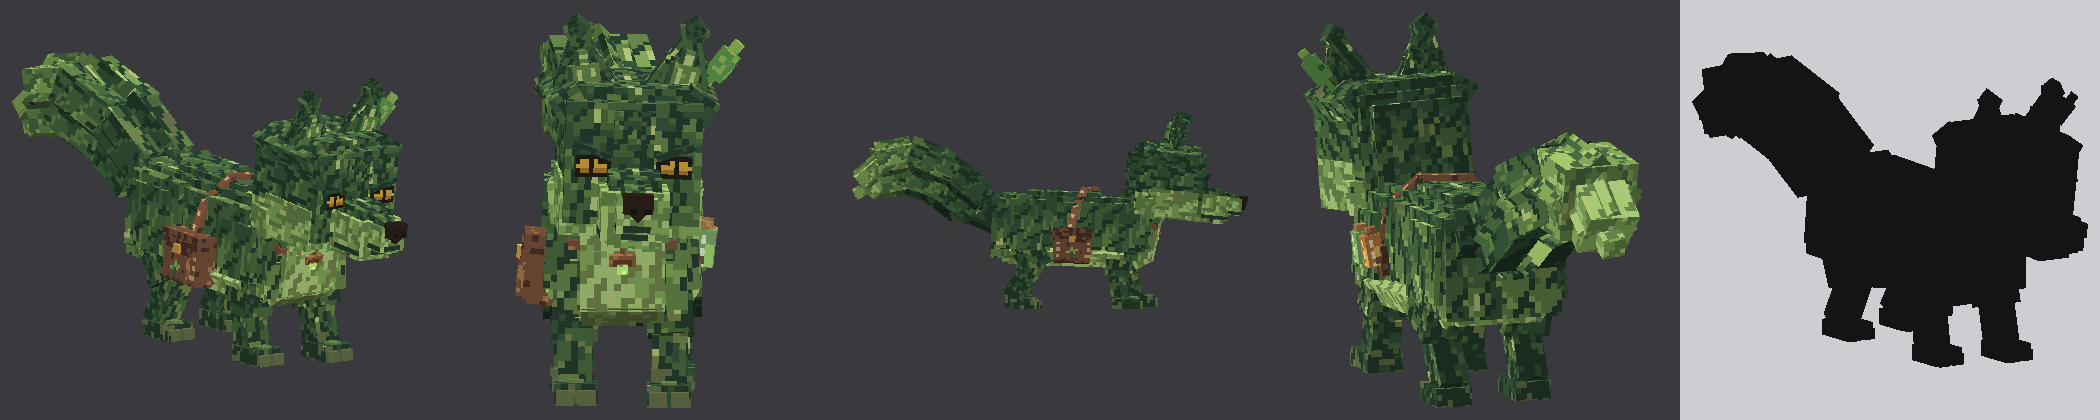
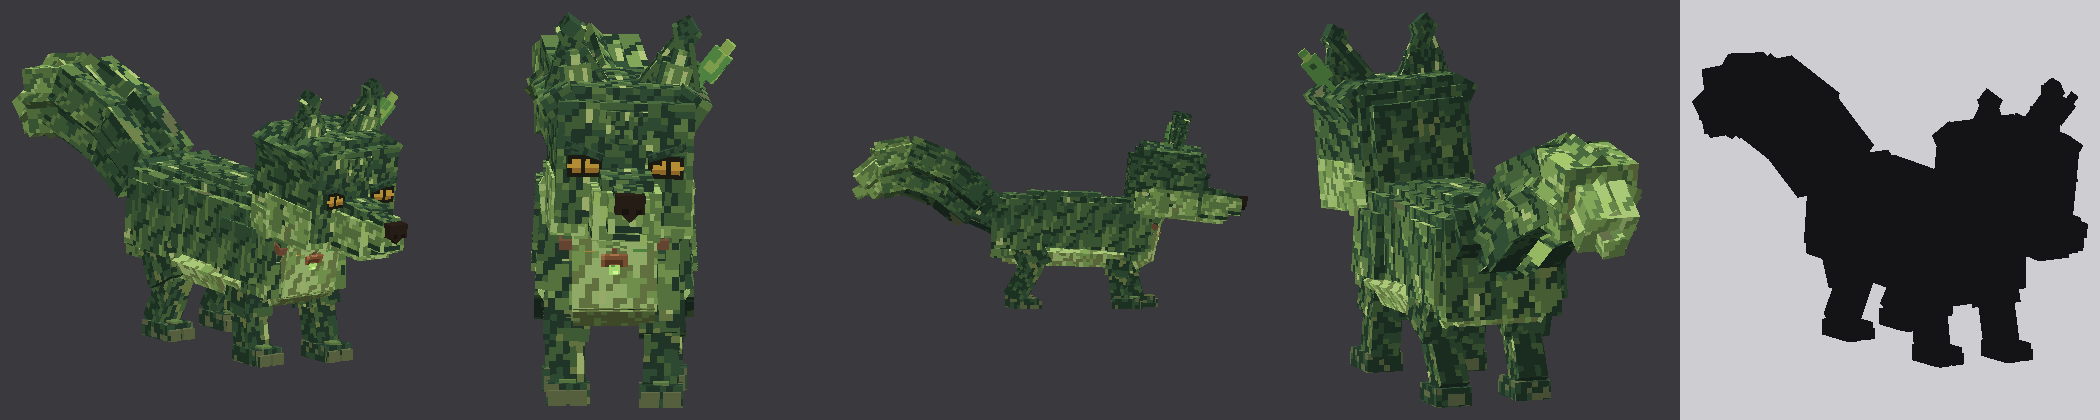
Leaf Fox: drop the satchel

diff --git a/FluxDungeons/assets/monstres/renard_feuilles.py b/FluxDungeons/assets/monstres/renard_feuilles.py
@@ -1,8 +1,8 @@
 #!/usr/bin/env python3
 """Leaf Fox (Renard de feuilles): the Herbalist Fox turned into a living plant, STATIC model (2026-11-11).
 
-Same geometry and bones as renard_herboriste.py (imported, never copied: same 120 boxes, same skeleton, same
-accessories); only the matter changes. Every surface that was fur is painted as overlapping leaves: small angular
+Same geometry and bones as renard_herboriste.py (imported, never copied), without the satchel (bone Bag: bag,
+strap, vial holder and vials dropped); the collar and the leaf by the ear stay. Only the matter changes. Every surface that was fur is painted as overlapping leaves: small angular
 leaves (wide base, pointed tip, discreet midrib, lit half and shaded half) laid like shingles, each casting a dark
 pixel shadow on the leaves below it, drawn from downstream to upstream so the leaf nearer the root covers the next.
 Leaves follow the body: backwards on the back, down and backwards on the flanks, downwards on the legs, backwards
@@ -267,6 +267,8 @@ def parts():
         return on_body(*on_head_raw(c, r))
     out = []
     for g, n, c, size, r, m in raw:
+        if g == "Bag":
+            continue                     # no satchel, strap or vials: a wild creature, not the herbalist
         if n.startswith("oeil_"):
             s = 1 if n.endswith("_d") else -1
             # 18 % less tall, a little wider, lowered by a hair so the brow sits on it
@@ -284,7 +286,9 @@ def parts():
 
 
 def build():
-    return ground(parts(), R.GROUPS, center=False)
+    raw = parts()
+    groups = {k: v for k, v in R.GROUPS.items() if k != "Bag"}
+    return ground(raw, groups, center=False)
 
 
 if __name__ == "__main__":
